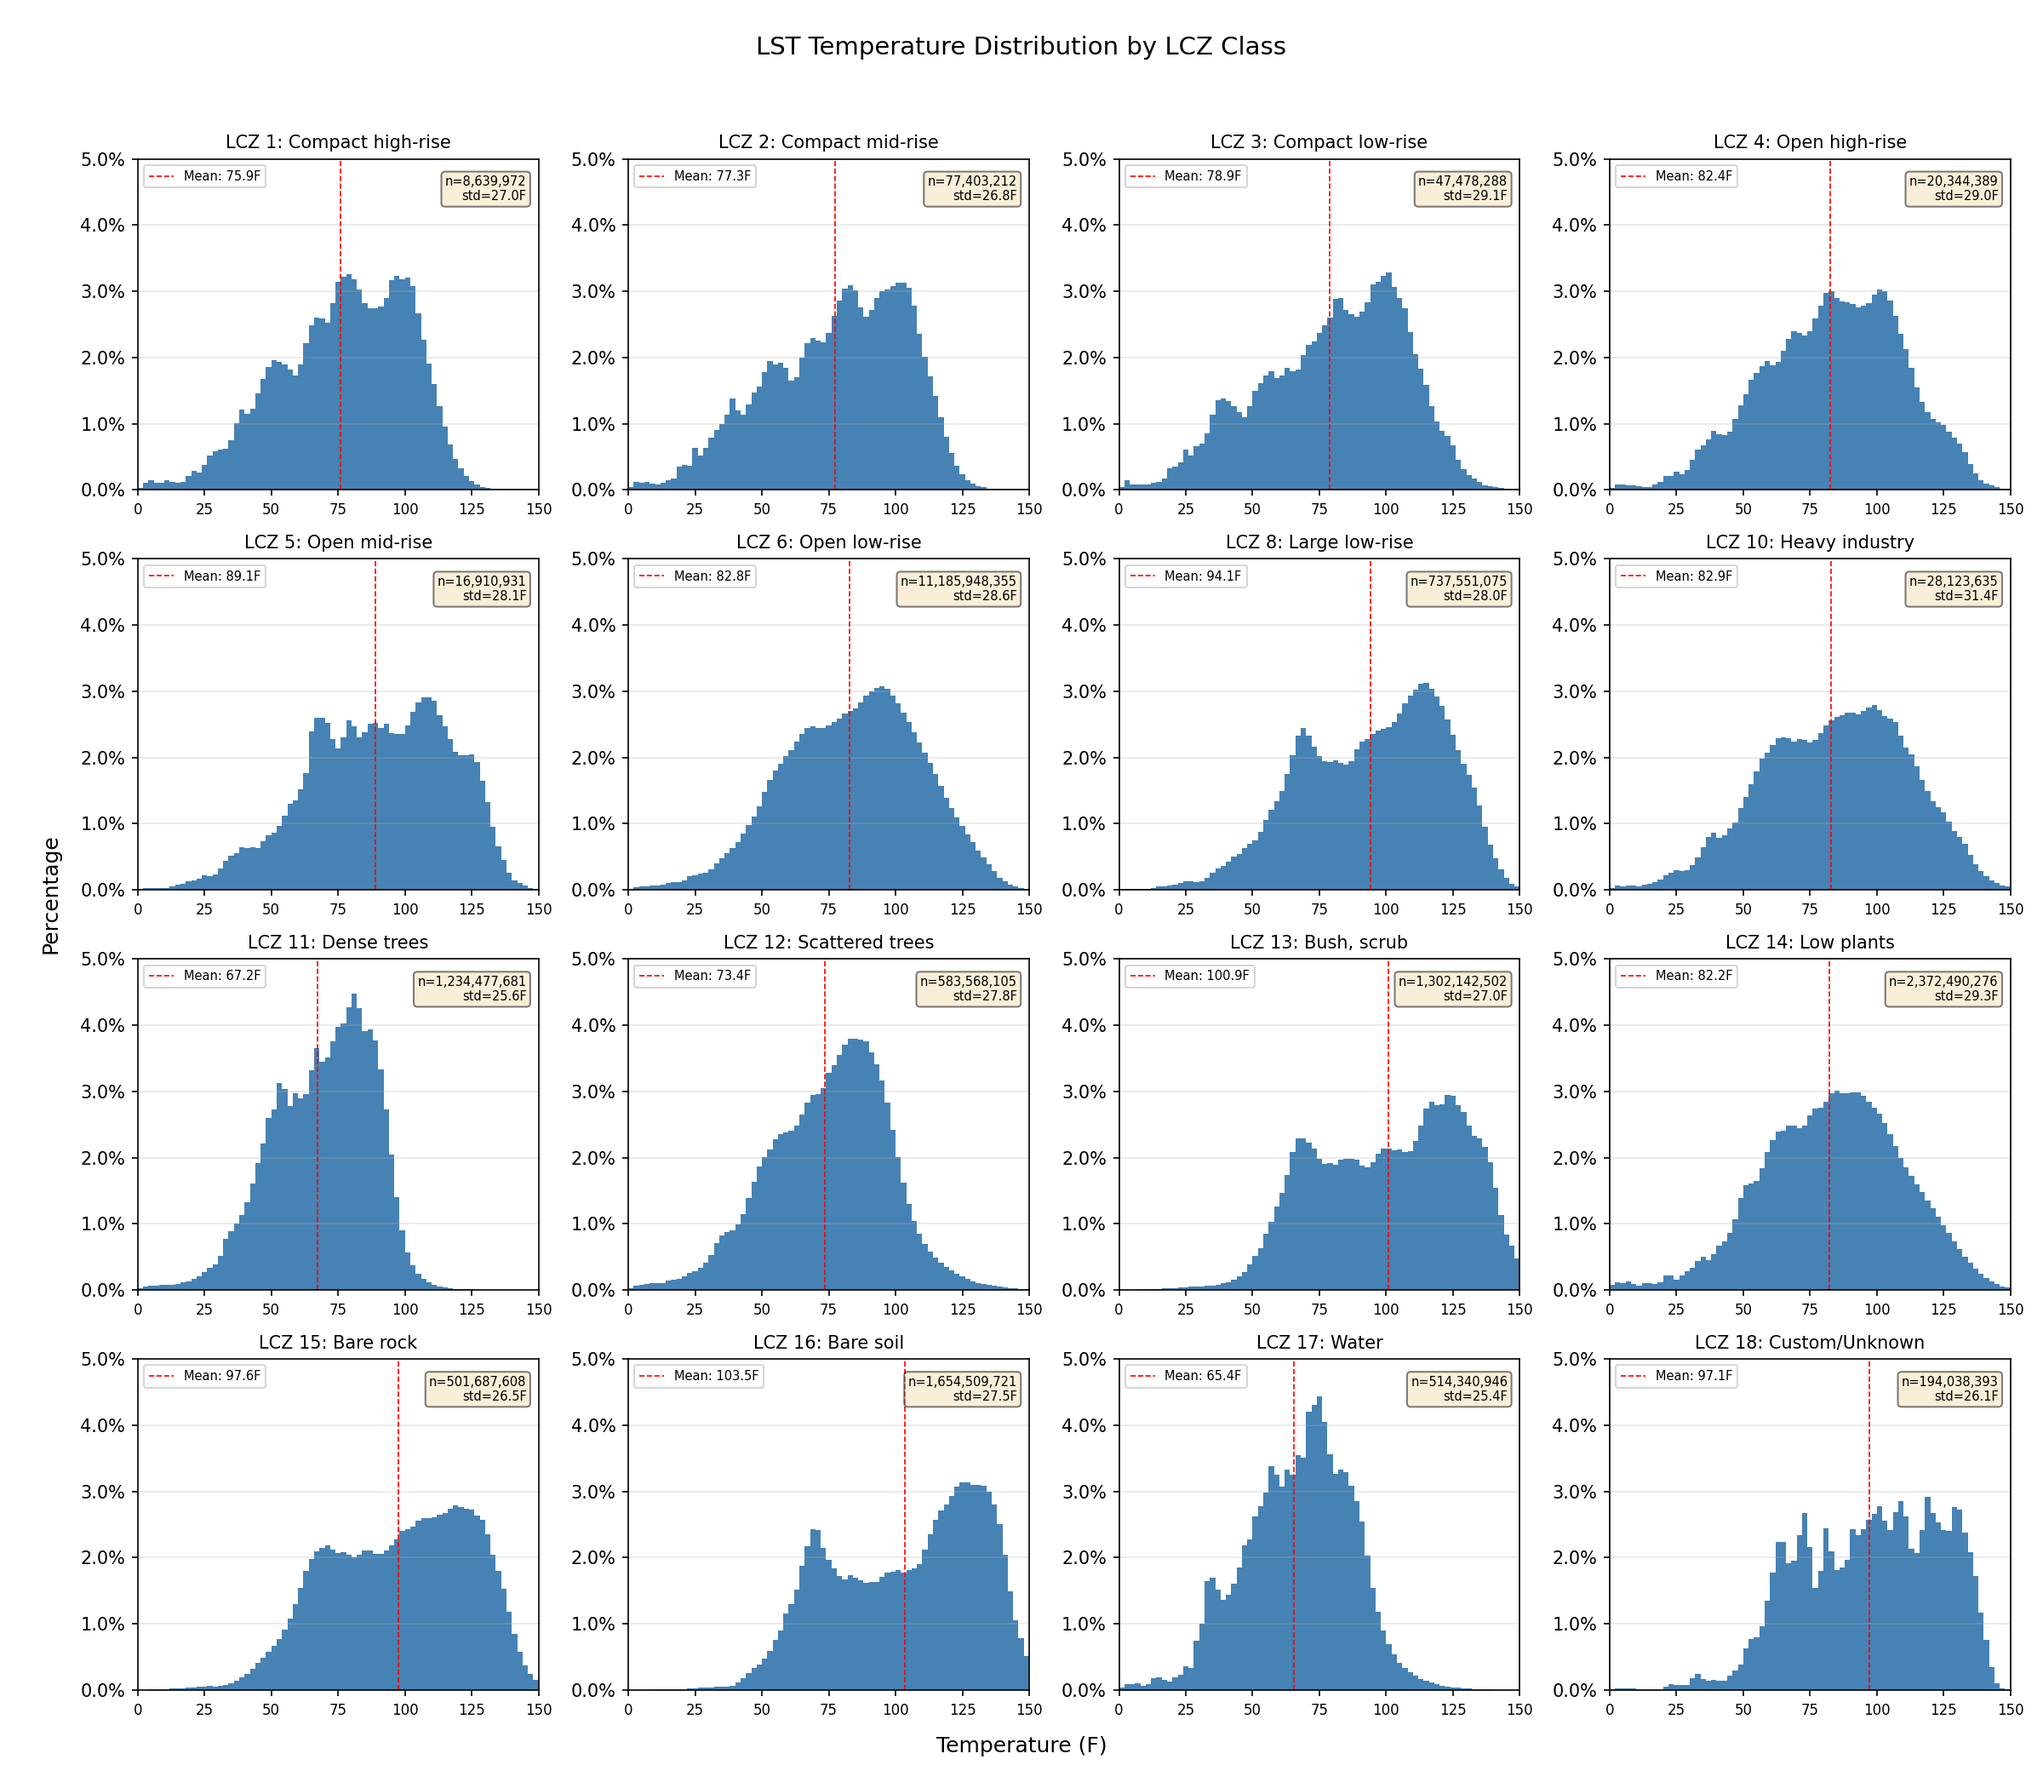
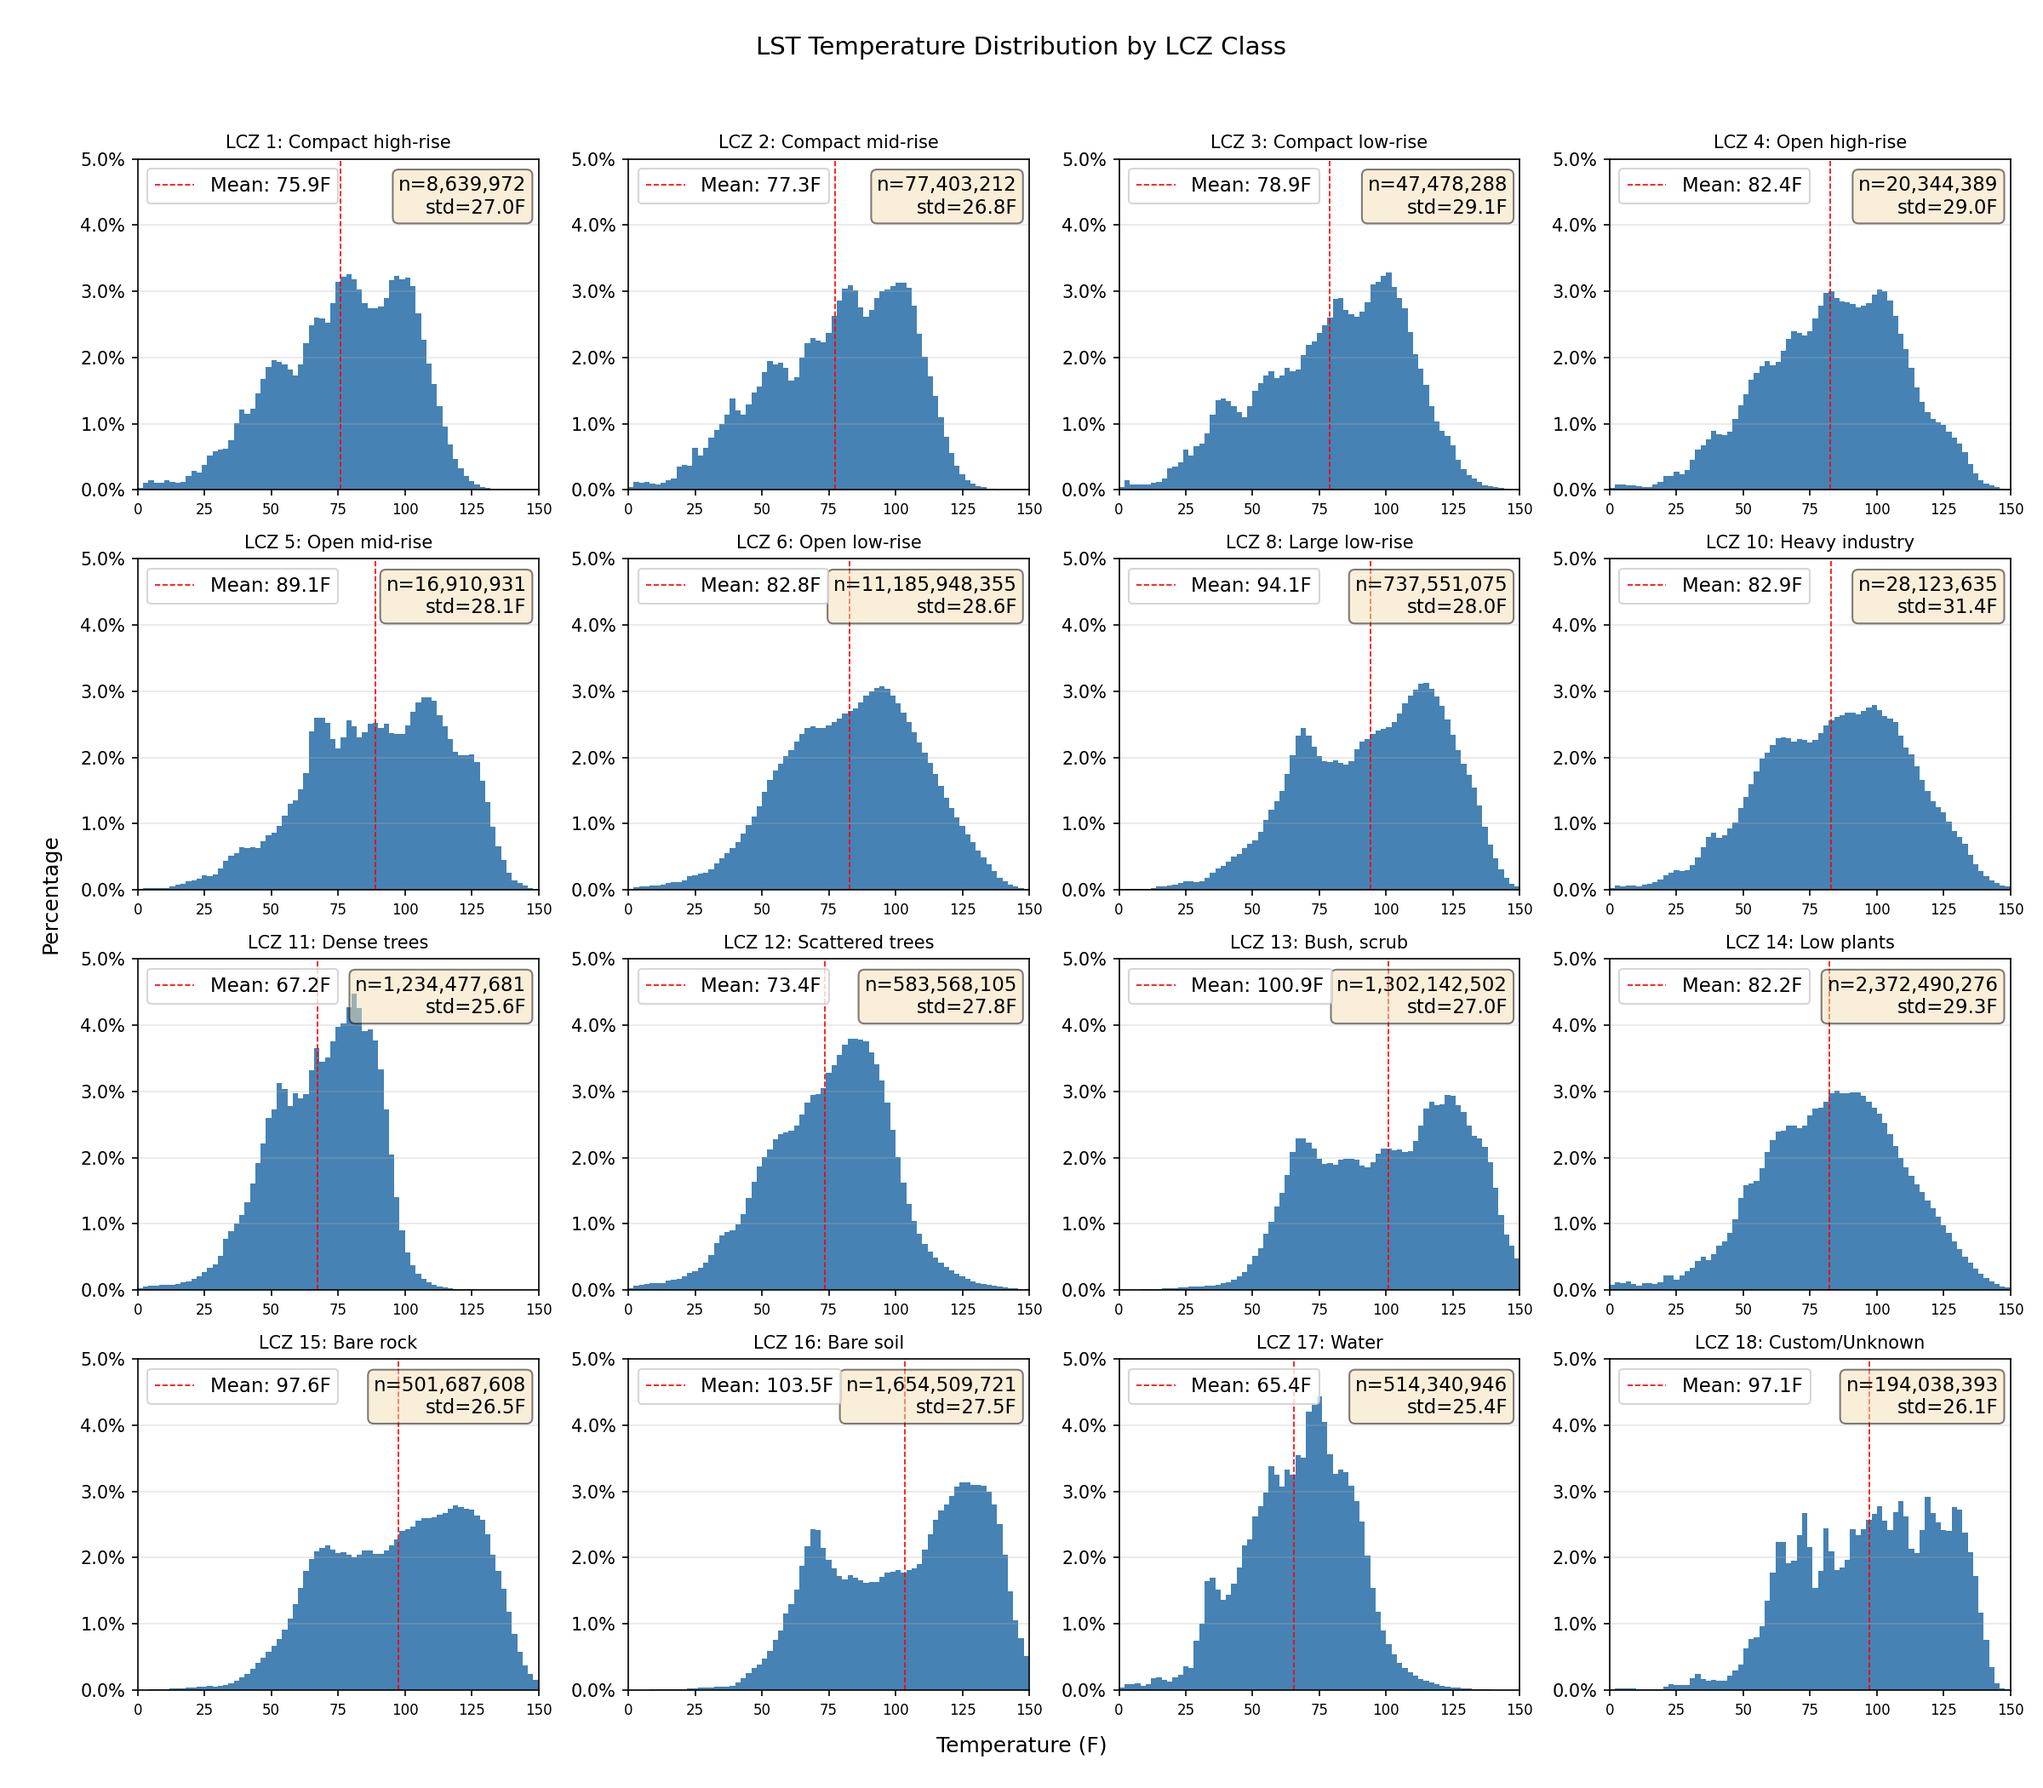
Increase font size for mean legend and stats labels

diff --git a/analysis/plot_lst_per_lcz_subplots.py b/analysis/plot_lst_per_lcz_subplots.py
@@ -83,10 +83,10 @@ for i, c in enumerate(present_classes):
     ax.set_xticklabels([f"{int(t)}" for t in x_ticks], fontsize=8)
     ax.yaxis.set_major_formatter(pct_fmt)
     ax.axvline(s['mean'], color='red', linestyle='--', linewidth=0.8, label=f"Mean: {s['mean']:.1f}F")
-    ax.legend(fontsize=7, loc='upper left')
+    ax.legend(fontsize=11, loc='upper left')
     ax.grid(axis='y', alpha=0.3)
     info = f"n={s['total']:,}\nstd={s['std']:.1f}F"
-    ax.text(0.97, 0.95, info, transform=ax.transAxes, fontsize=7,
+    ax.text(0.97, 0.95, info, transform=ax.transAxes, fontsize=11,
             verticalalignment='top', horizontalalignment='right',
             bbox=dict(boxstyle='round,pad=0.3', facecolor='wheat', alpha=0.5))
 
